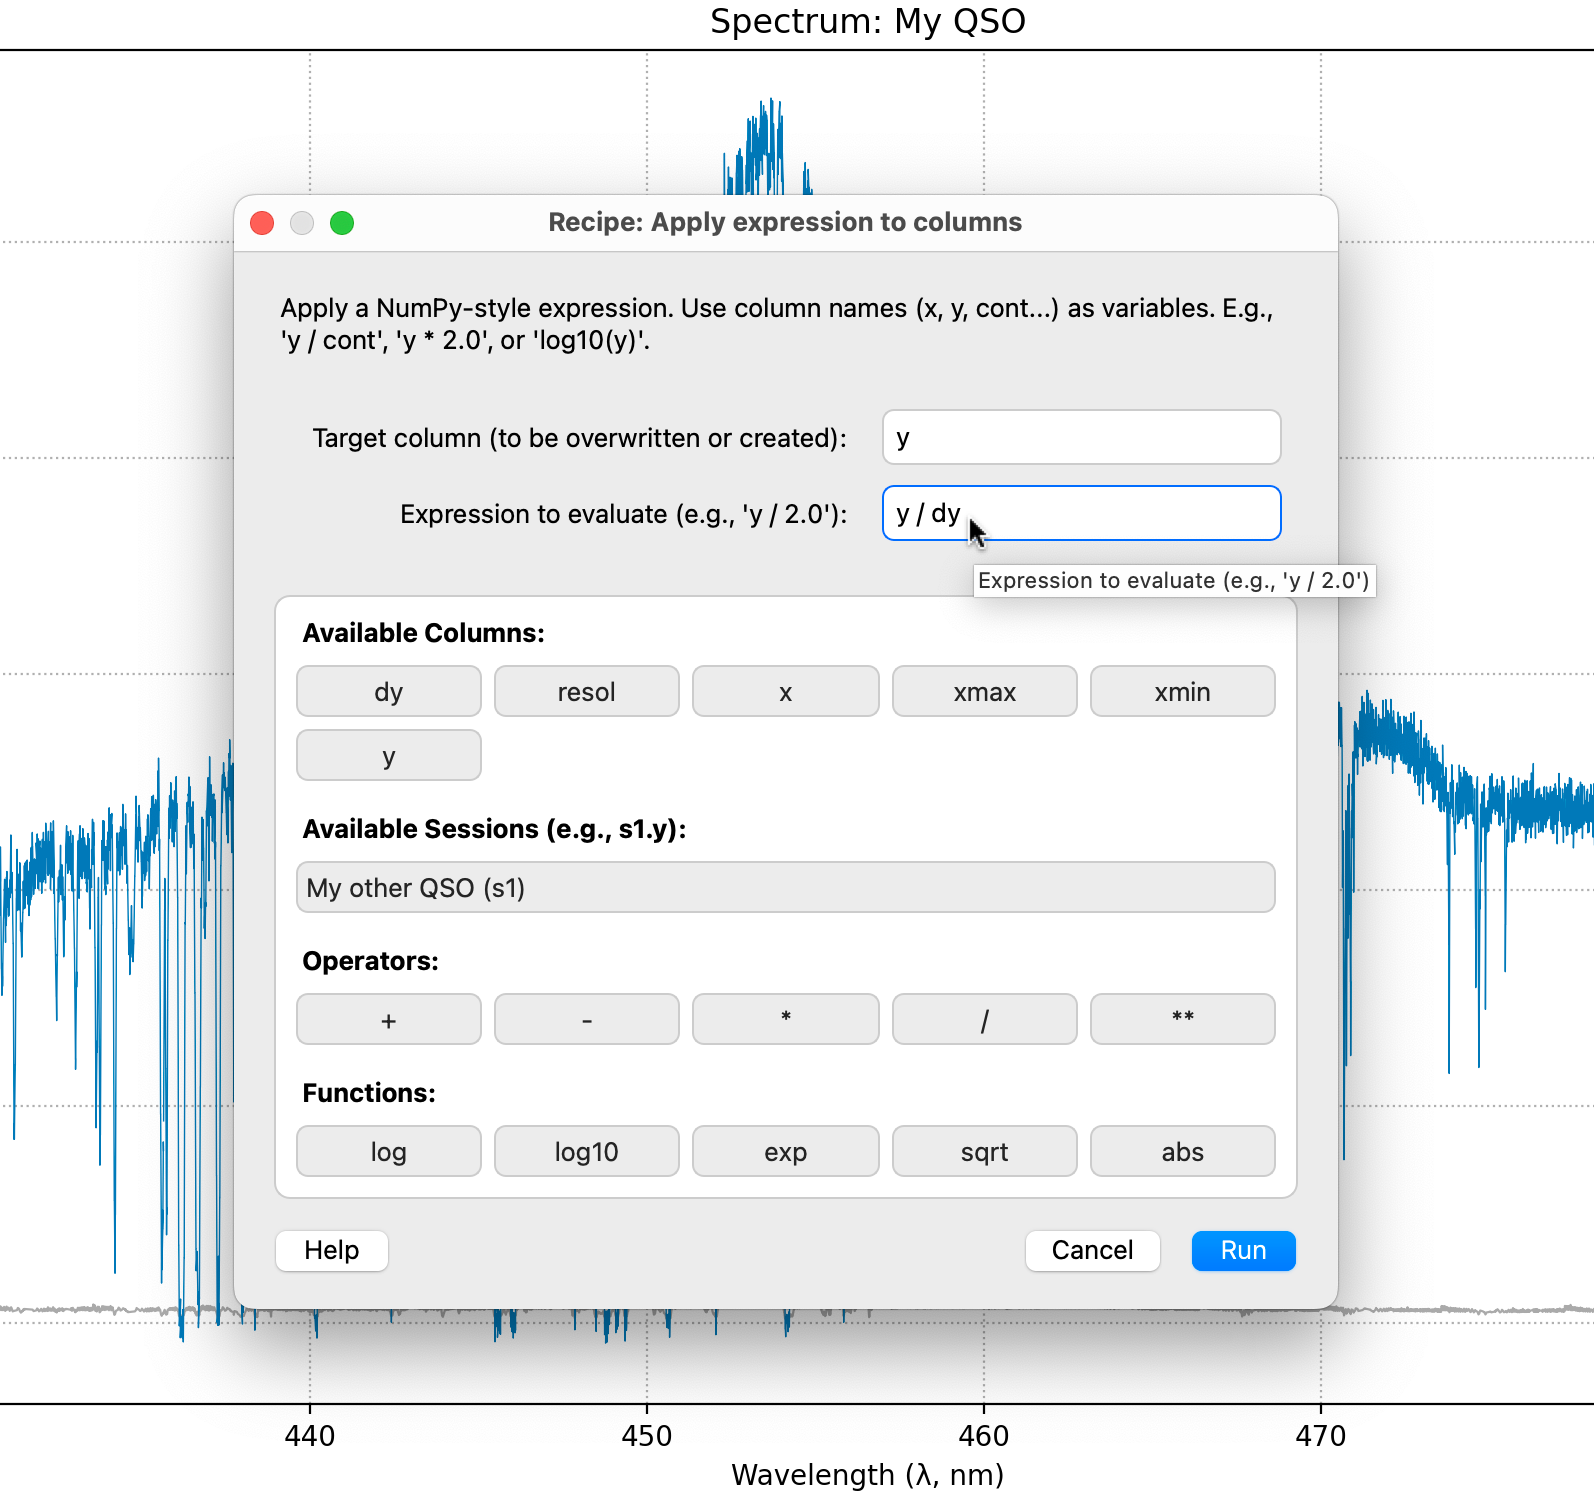
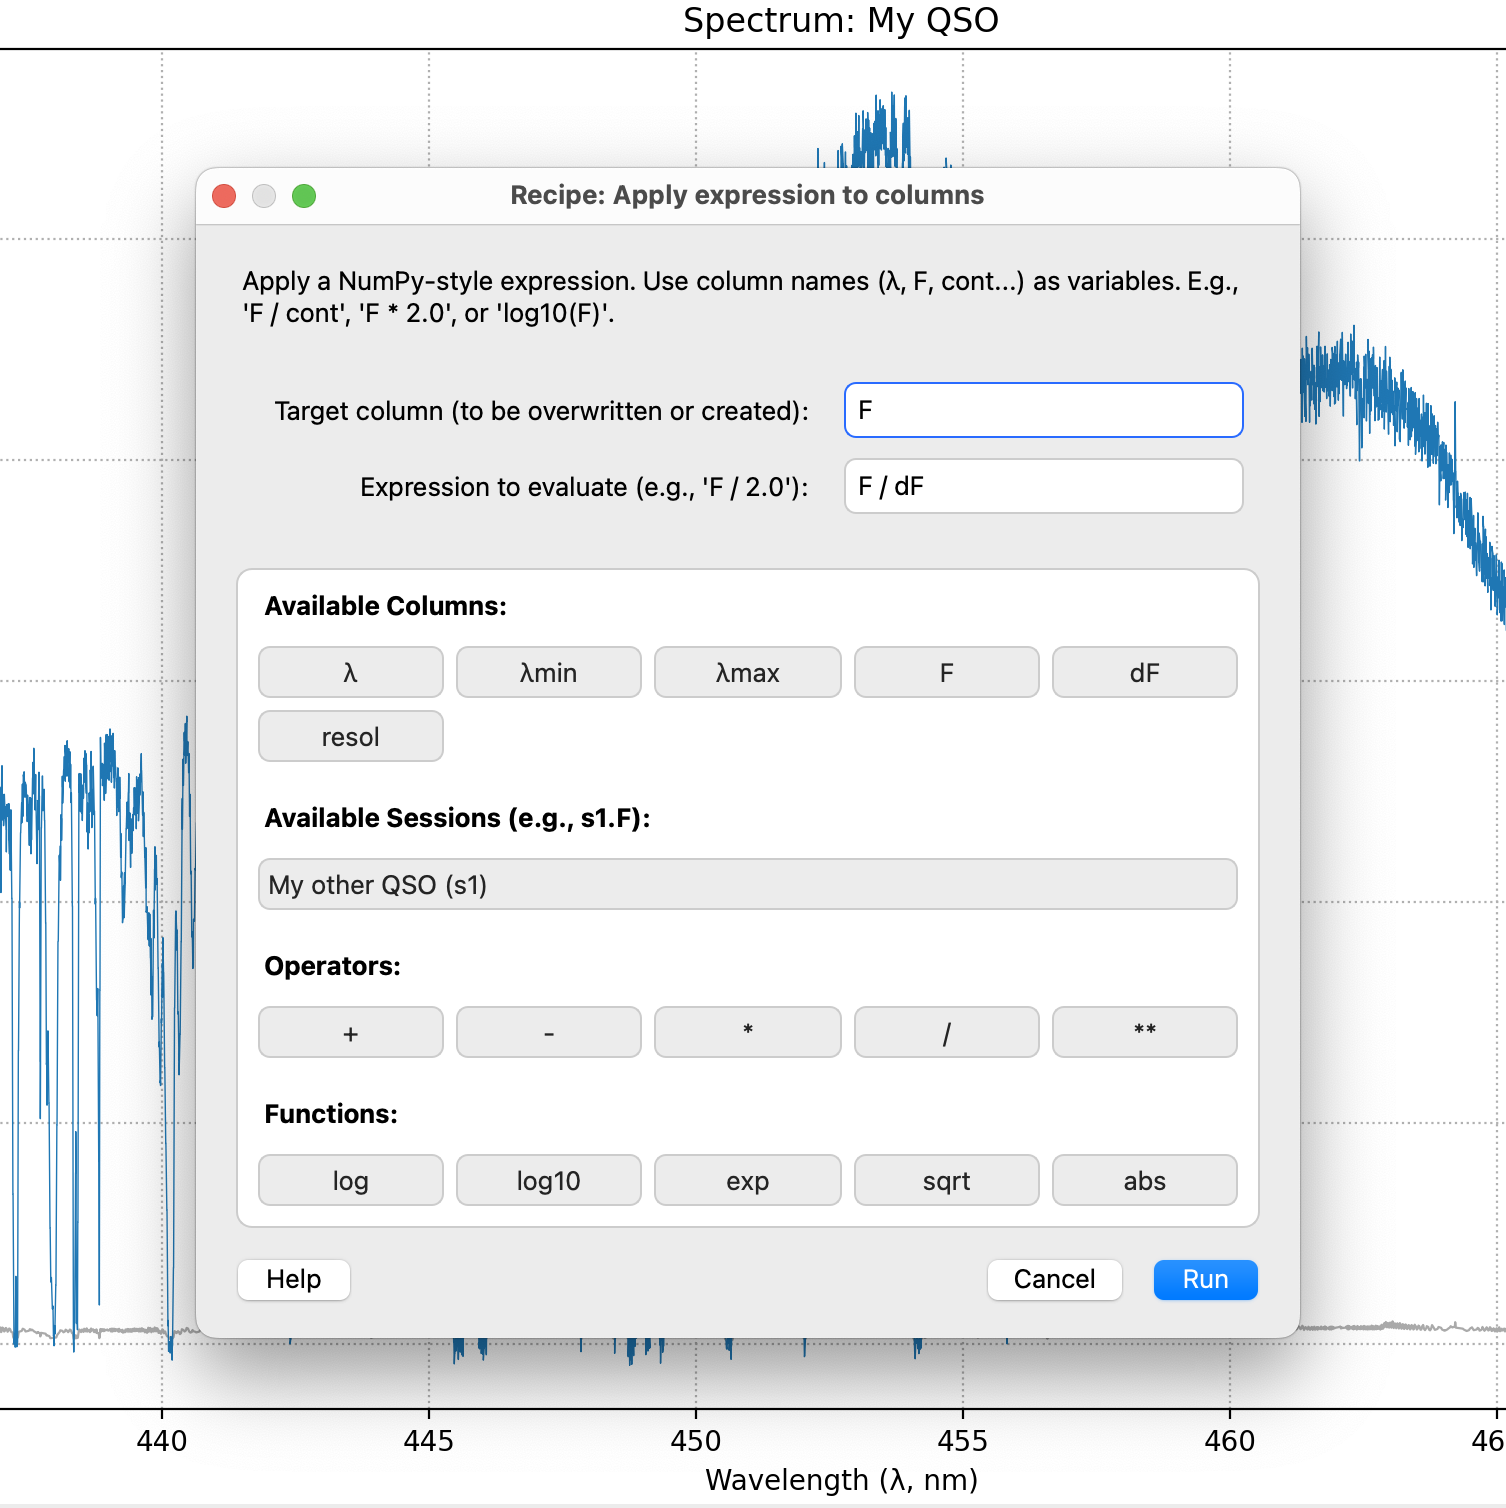
fix(gui): New column names enforced also in recipe dialogs

diff --git a/astrocook/recipes/edit.py b/astrocook/recipes/edit.py
@@ -45,7 +45,7 @@ EDIT_RECIPES_SCHEMAS = {
     },
     "apply_expression": {
         "brief": "Apply expression to columns.",
-        "details": "Apply a NumPy-style expression. Use column names (x, y, cont...) as variables. E.g., 'y / cont', 'y * 2.0', or 'log10(y)'.",
+        "details": "Apply a NumPy-style expression. Use column names (λ, F, cont...) as variables. E.g., 'F / cont', 'F * 2.0', or 'log10(F)'.",
         "params": [
             {"name": "target_col", "type": str, "default": "F", "doc": "Target column (to be overwritten or created)"},
             {"name": "expression", "type": str, "default": "F / dF", "doc": "Expression to evaluate (e.g., 'F / 2.0')"},
@@ -54,16 +54,16 @@ EDIT_RECIPES_SCHEMAS = {
     },
     "mask_expression": {
         "brief": "Mask column by expression.",
-        "details": "Mask a target column by setting values to NaN where the expression is True. E.g., '(x < 300) | (x > 400)', or 'dy <= 0'.",
+        "details": "Mask a target column by setting values to NaN where the expression is True. E.g., '(λ < 300) | (λ > 400)', or 'dF <= 0'.",
         "params": [
             {"name": "target_col", "type": str, "default": "F", "doc": "Target column to mask (e.g., F)"},
-            {"name": "expression", "type": str, "default": "dF <= 0", "doc": "Boolean expression (e.g., '(x > 300) & (x < 400)')"},
+            {"name": "expression", "type": str, "default": "dF <= 0", "doc": "Boolean expression (e.g., '(λ > 300) & (λ < 400)')"},
         ],
         "url": "edit_cb.html#mask_expression" # Placeholder URL
     },
     "smooth_column": {
         "brief": "Smooth a single column.",
-        "details": "Apply a Gaussian filter to a single data column (e.g., 'dy' or 'snr').",
+        "details": "Apply a Gaussian filter to a single data column (e.g., 'dF' or 'snr').",
         "params": [
             {"name": "target_col", "type": str, "default": "dF", "doc": "Target column to smooth"},
             {"name": "sigma_kms", "type": float, "default": 100.0, "doc": "Standard deviation for Gaussian kernel (km/s)"},
@@ -193,7 +193,7 @@ class RecipeEditV2:
         Parameters
         ----------
         expression : str
-            The raw expression string provided by the user (e.g. ``"y - s1.y"``).
+            The raw expression string provided by the user (e.g. ``"F - s1.F"``).
         alias_map : dict
             A dictionary mapping aliases (e.g. ``"s1"``) to full session names.
 

diff --git a/astrocook/core/spectrum.py b/astrocook/core/spectrum.py
@@ -700,14 +700,14 @@ class SpectrumV2:
         """
         Prepare context for cross-spectrum arithmetic expressions.
 
-        Parses an expression for aliases (e.g., ``"s1.y"``), resolves them against
+        Parses an expression for aliases (e.g., ``"s1.F"``), resolves them against
         provided spectrum objects, and resamples their data onto the current
         spectrum's grid.
 
         Parameters
         ----------
         expression : str
-            The raw expression string (e.g., ``"y - s1.y"``).
+            The raw expression string (e.g., ``"F - s1.F"``).
         other_specs : dict
             A dictionary mapping alias names to :class:`SpectrumV2` objects.
 

diff --git a/astrocook/gui/recipe_dialog.py b/astrocook/gui/recipe_dialog.py
@@ -377,7 +377,7 @@ class RecipeDialog(QDialog):
 
             # ... (Session/Operator/Function/Boolean blocks) ...
             if self.session_alias_map:
-                sess_title = QLabel("<b>Available Sessions (e.g., s1.y):</b>")
+                sess_title = QLabel("<b>Available Sessions (e.g., s1.F):</b>")
                 sess_title.setContentsMargins(0, 8, 0, 0)
                 ref_layout.addWidget(sess_title)
                 sess_button_widget = QWidget()
